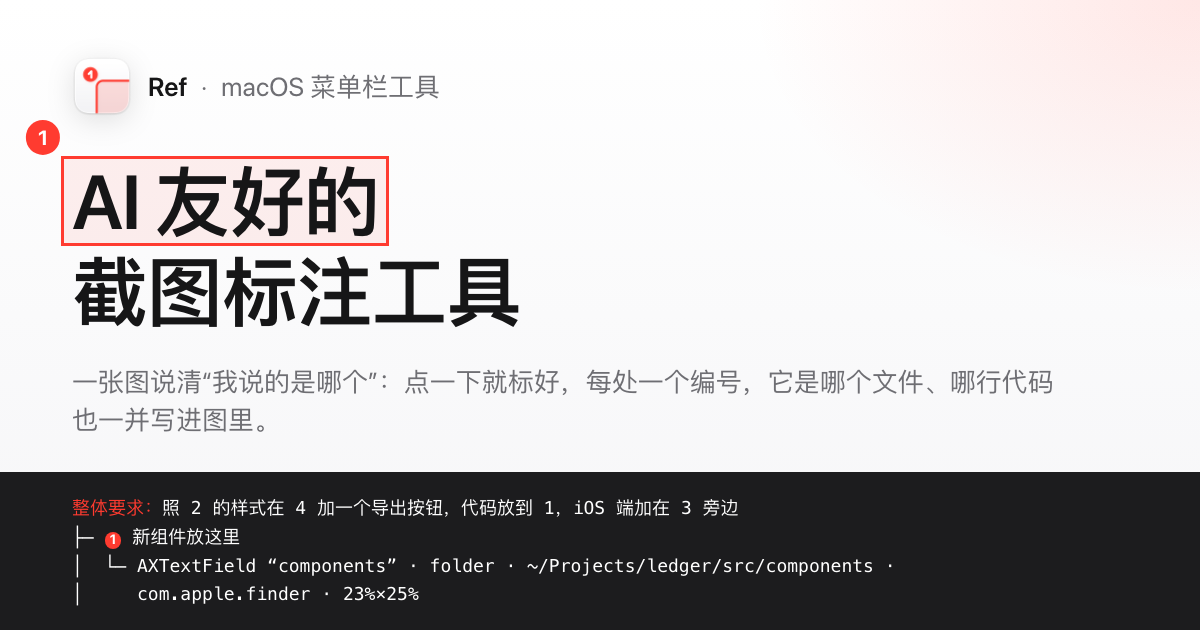
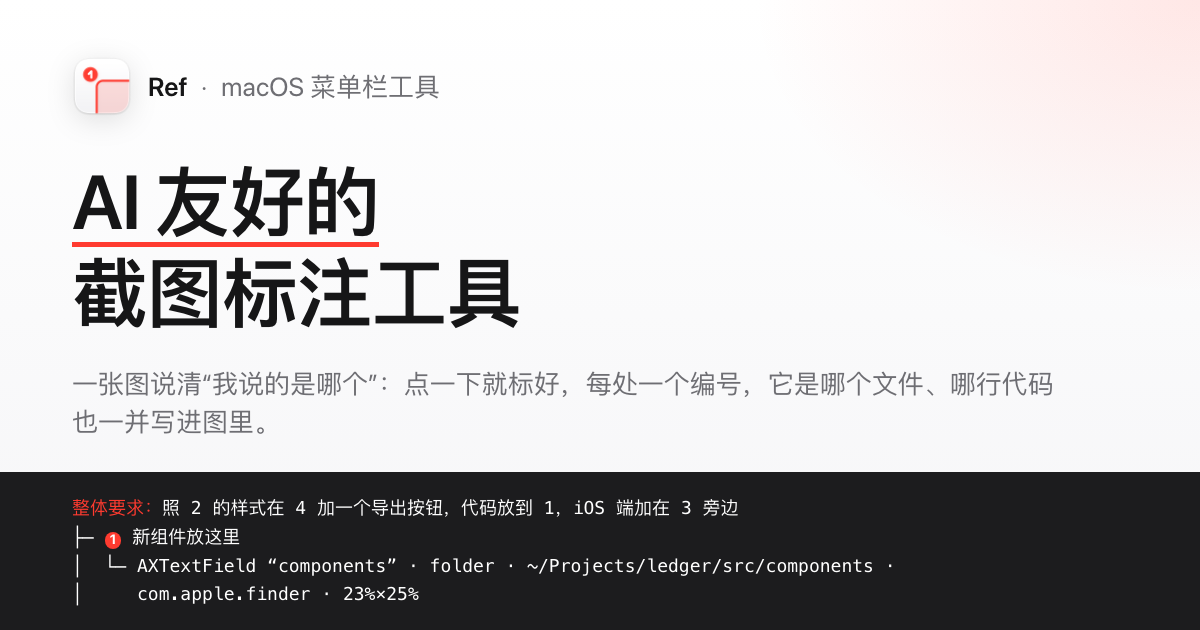
site: f488dda41ced (push)

diff --git a/assets/site.css b/assets/site.css
@@ -239,21 +239,12 @@ p code, td code, li code, h3 code { padding: 0.1em 0.4em; border-radius: 5px; ba
   margin: 0; max-width: 20ch;
   font-size: 68px; line-height: 1.16; letter-spacing: -0.015em; font-weight: 600;
 }
-/* The headline carries a mark the way the app draws one: a square ring outside the words,
-   a flat badge off the top-left corner on the diagonal. */
+/* The words that set Ref apart are underlined in the marker's red: a rule drawn under them,
+   clear of the glyphs, where a text underline would run through the feet of Chinese characters. */
 .mark {
-  position: relative; display: inline-block; margin: 0 0.1em 0 0.56em; padding: 0 0.1em; line-height: 1.1;
-  outline: 0.045em solid var(--red); background: var(--red-tint);
+  display: inline-block; padding-bottom: 0.06em; line-height: 1.1;
+  background: linear-gradient(var(--red), var(--red)) 0 100% / 100% 0.07em no-repeat;
 }
-.mark .badge {
-  position: absolute; left: -1.05em; top: -1.05em; transform: translate(-50%, -50%);
-  font: 700 0.27em/1 var(--font); font-variant-numeric: tabular-nums;
-  width: 1.667em; height: 1.667em; border-radius: 50%;
-  background: var(--red); color: #fff;
-  display: grid; place-items: center;
-}
-/* The number is drawn, not written: as text it would read as part of the headline. */
-.mark .badge::after { content: "1"; }
 /* The two things the page is about, each a step down to the section that shows it. */
 .lede-2 { display: flex; flex-wrap: wrap; justify-content: center; gap: 10px; margin-top: 32px; }
 .lede-2 a {
@@ -1179,7 +1170,6 @@ html.demo-lock { overflow: hidden; }
   .hero h1 { font-size: 36px; letter-spacing: -0.01em; }
   /* "Screenshot annotation" stays one line on a 375px phone. */
   :lang(en) .hero h1 { font-size: 32px; }
-  .mark { outline-width: 0.055em; }
   .cta { flex-direction: column; align-items: stretch; width: 100%; }
   .cta .btn { width: 100%; }
   .copy code { font-size: 14px; }

diff --git a/en/index.html b/en/index.html
@@ -89,7 +89,7 @@
 <!-- ========== Hero ========== -->
 <section class="hero" aria-labelledby="hero-title">
   <div class="container hero-copy">
-    <h1 id="hero-title"><span class="mark">AI-friendly<b class="badge" aria-hidden="true"></b></span> <span class="nowrap">screenshot annotation</span></h1>
+    <h1 id="hero-title"><span class="mark">AI-friendly</span> <span class="nowrap">screenshot annotation</span></h1>
     <ul class="lede-2">
       <li><a href="#faster"><b>Faster</b><span>Smart selection, one click to pick</span></a></li>
       <li><a href="#precise"><b>More precise</b><span>Auto-numbered; page, notes, extra details linked</span></a></li>

diff --git a/index.html b/index.html
@@ -89,7 +89,7 @@
 <!-- ========== Hero ========== -->
 <section class="hero" aria-labelledby="hero-title">
   <div class="container hero-copy">
-    <h1 id="hero-title"><span class="mark">AI 友好的<b class="badge" aria-hidden="true"></b></span><span class="nowrap">截图标注工具</span></h1>
+    <h1 id="hero-title"><span class="mark">AI 友好的</span><span class="nowrap">截图标注工具</span></h1>
     <ul class="lede-2">
       <li><a href="#faster"><b>更快</b><span>智能选框，一键选中</span></a></li>
       <li><a href="#precise"><b>更准</b><span>自动编号，页面、提示、补充信息自动关联</span></a></li>
